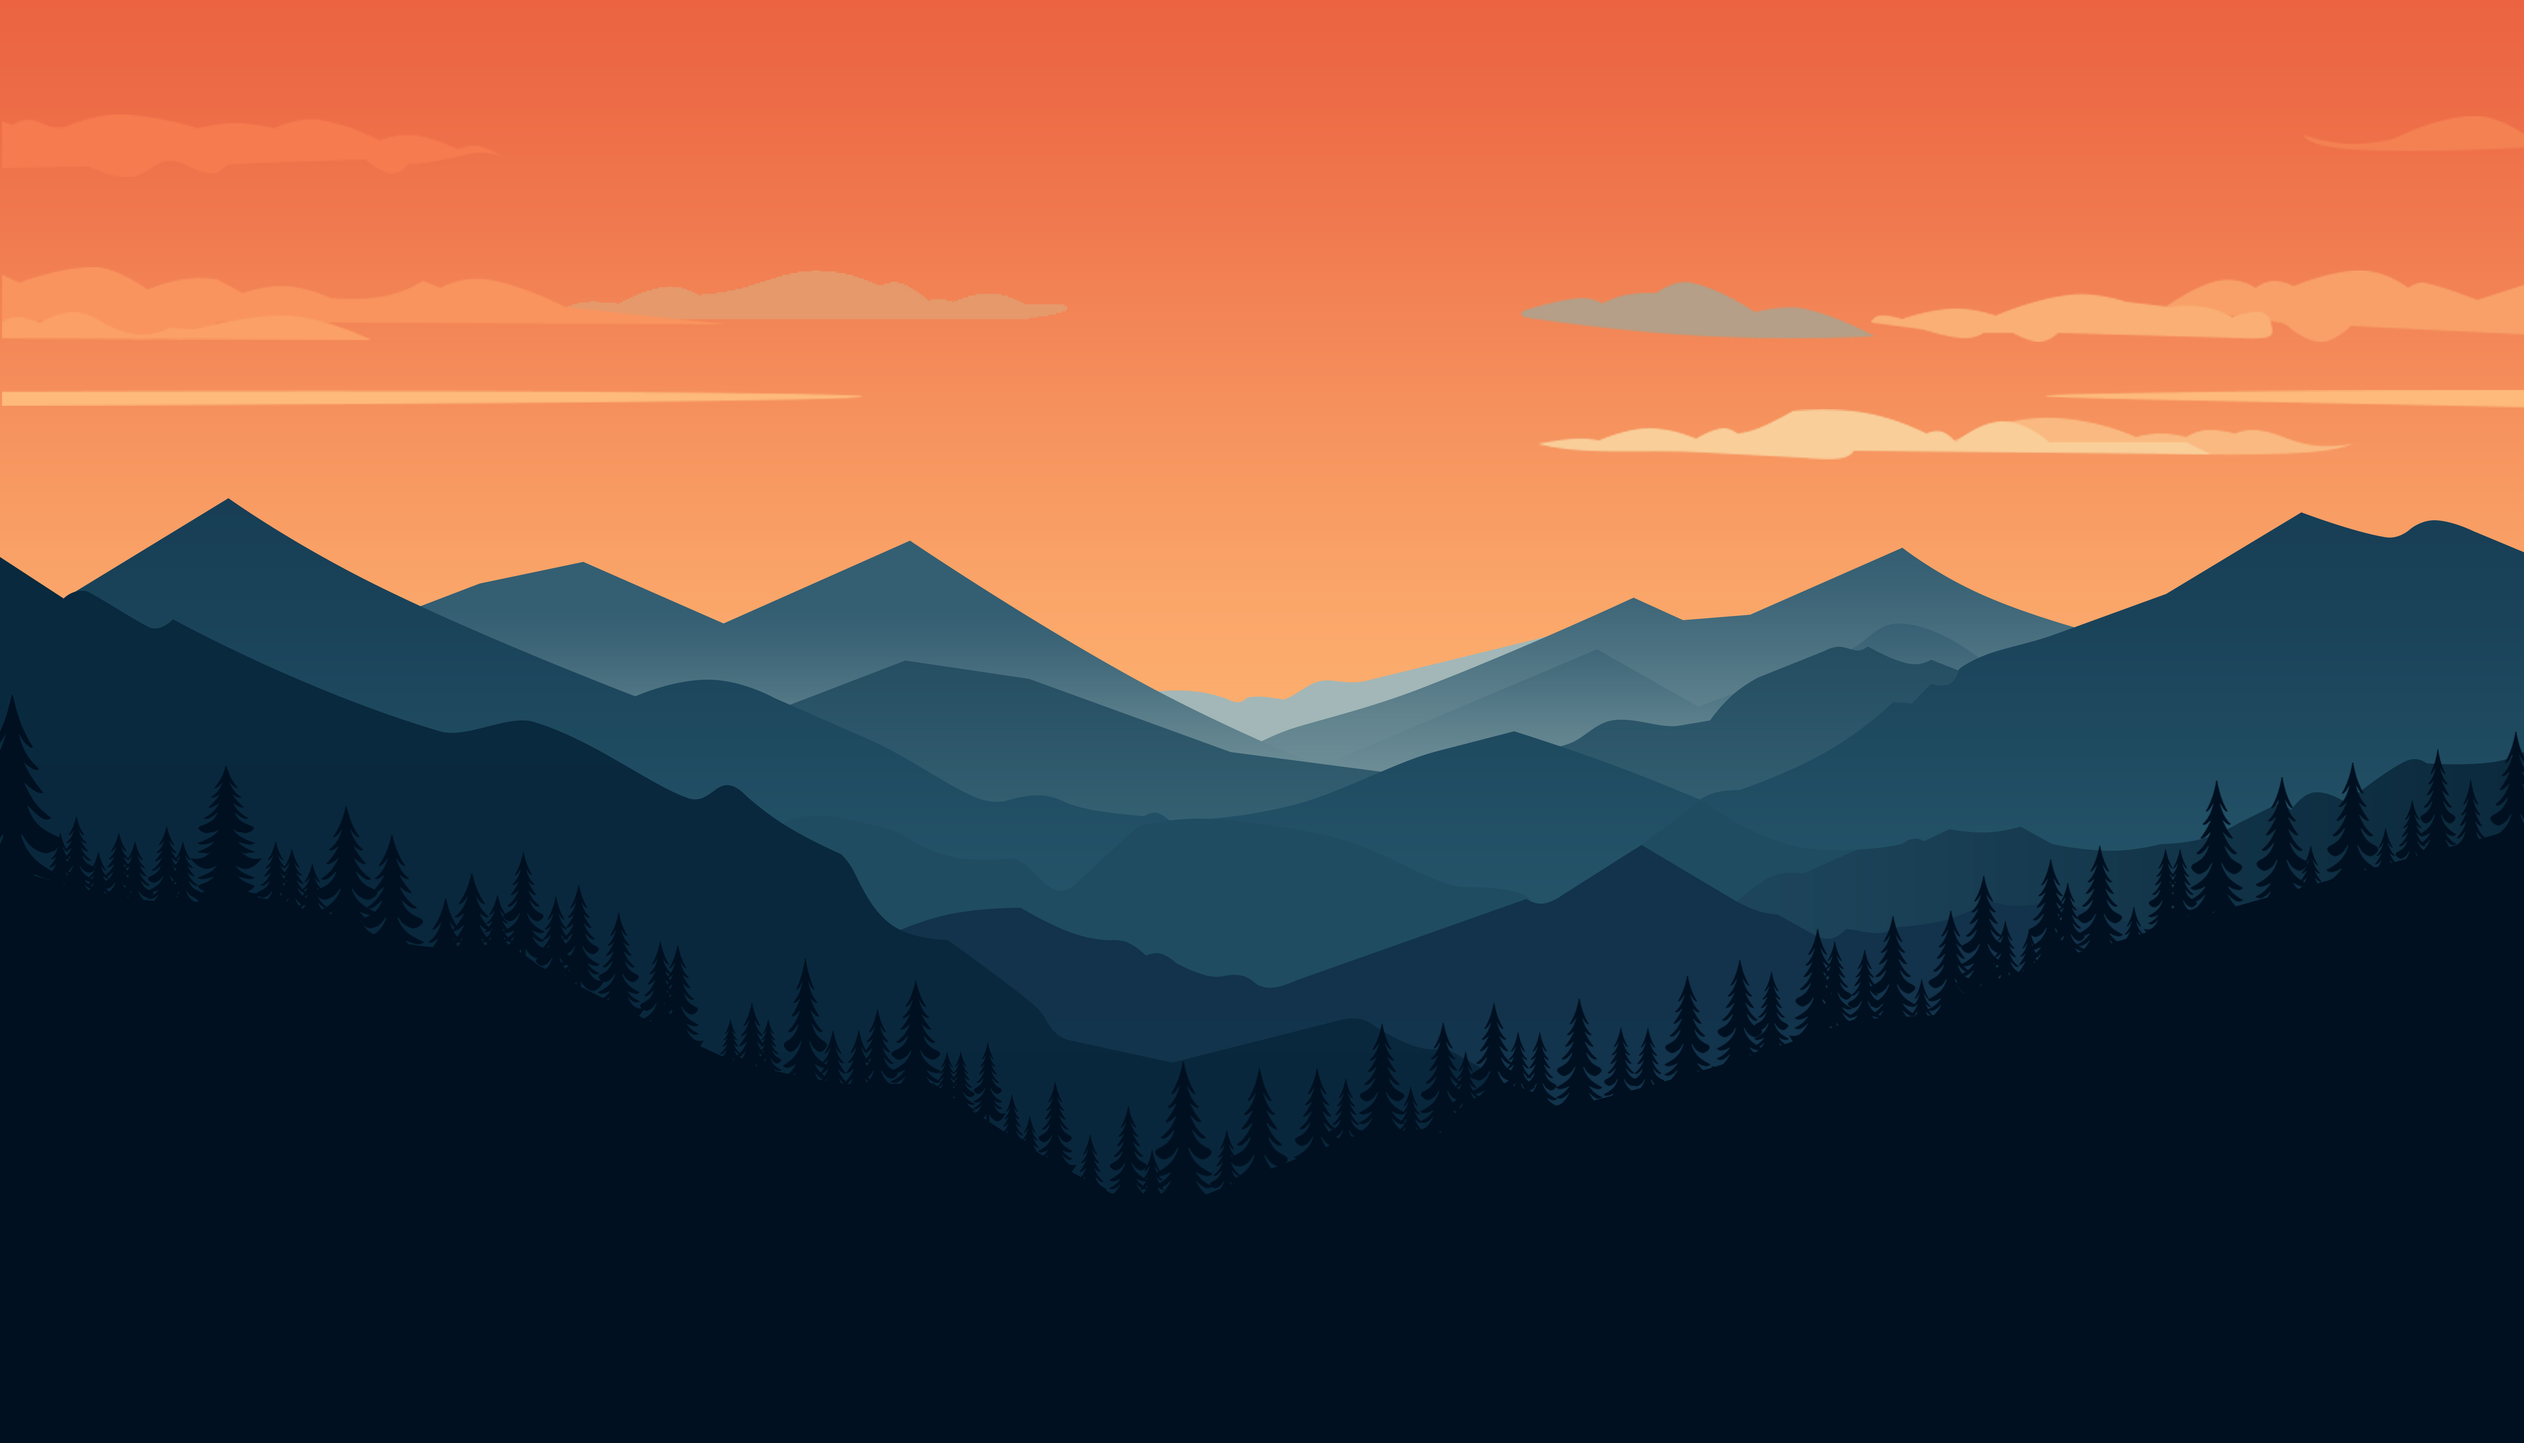
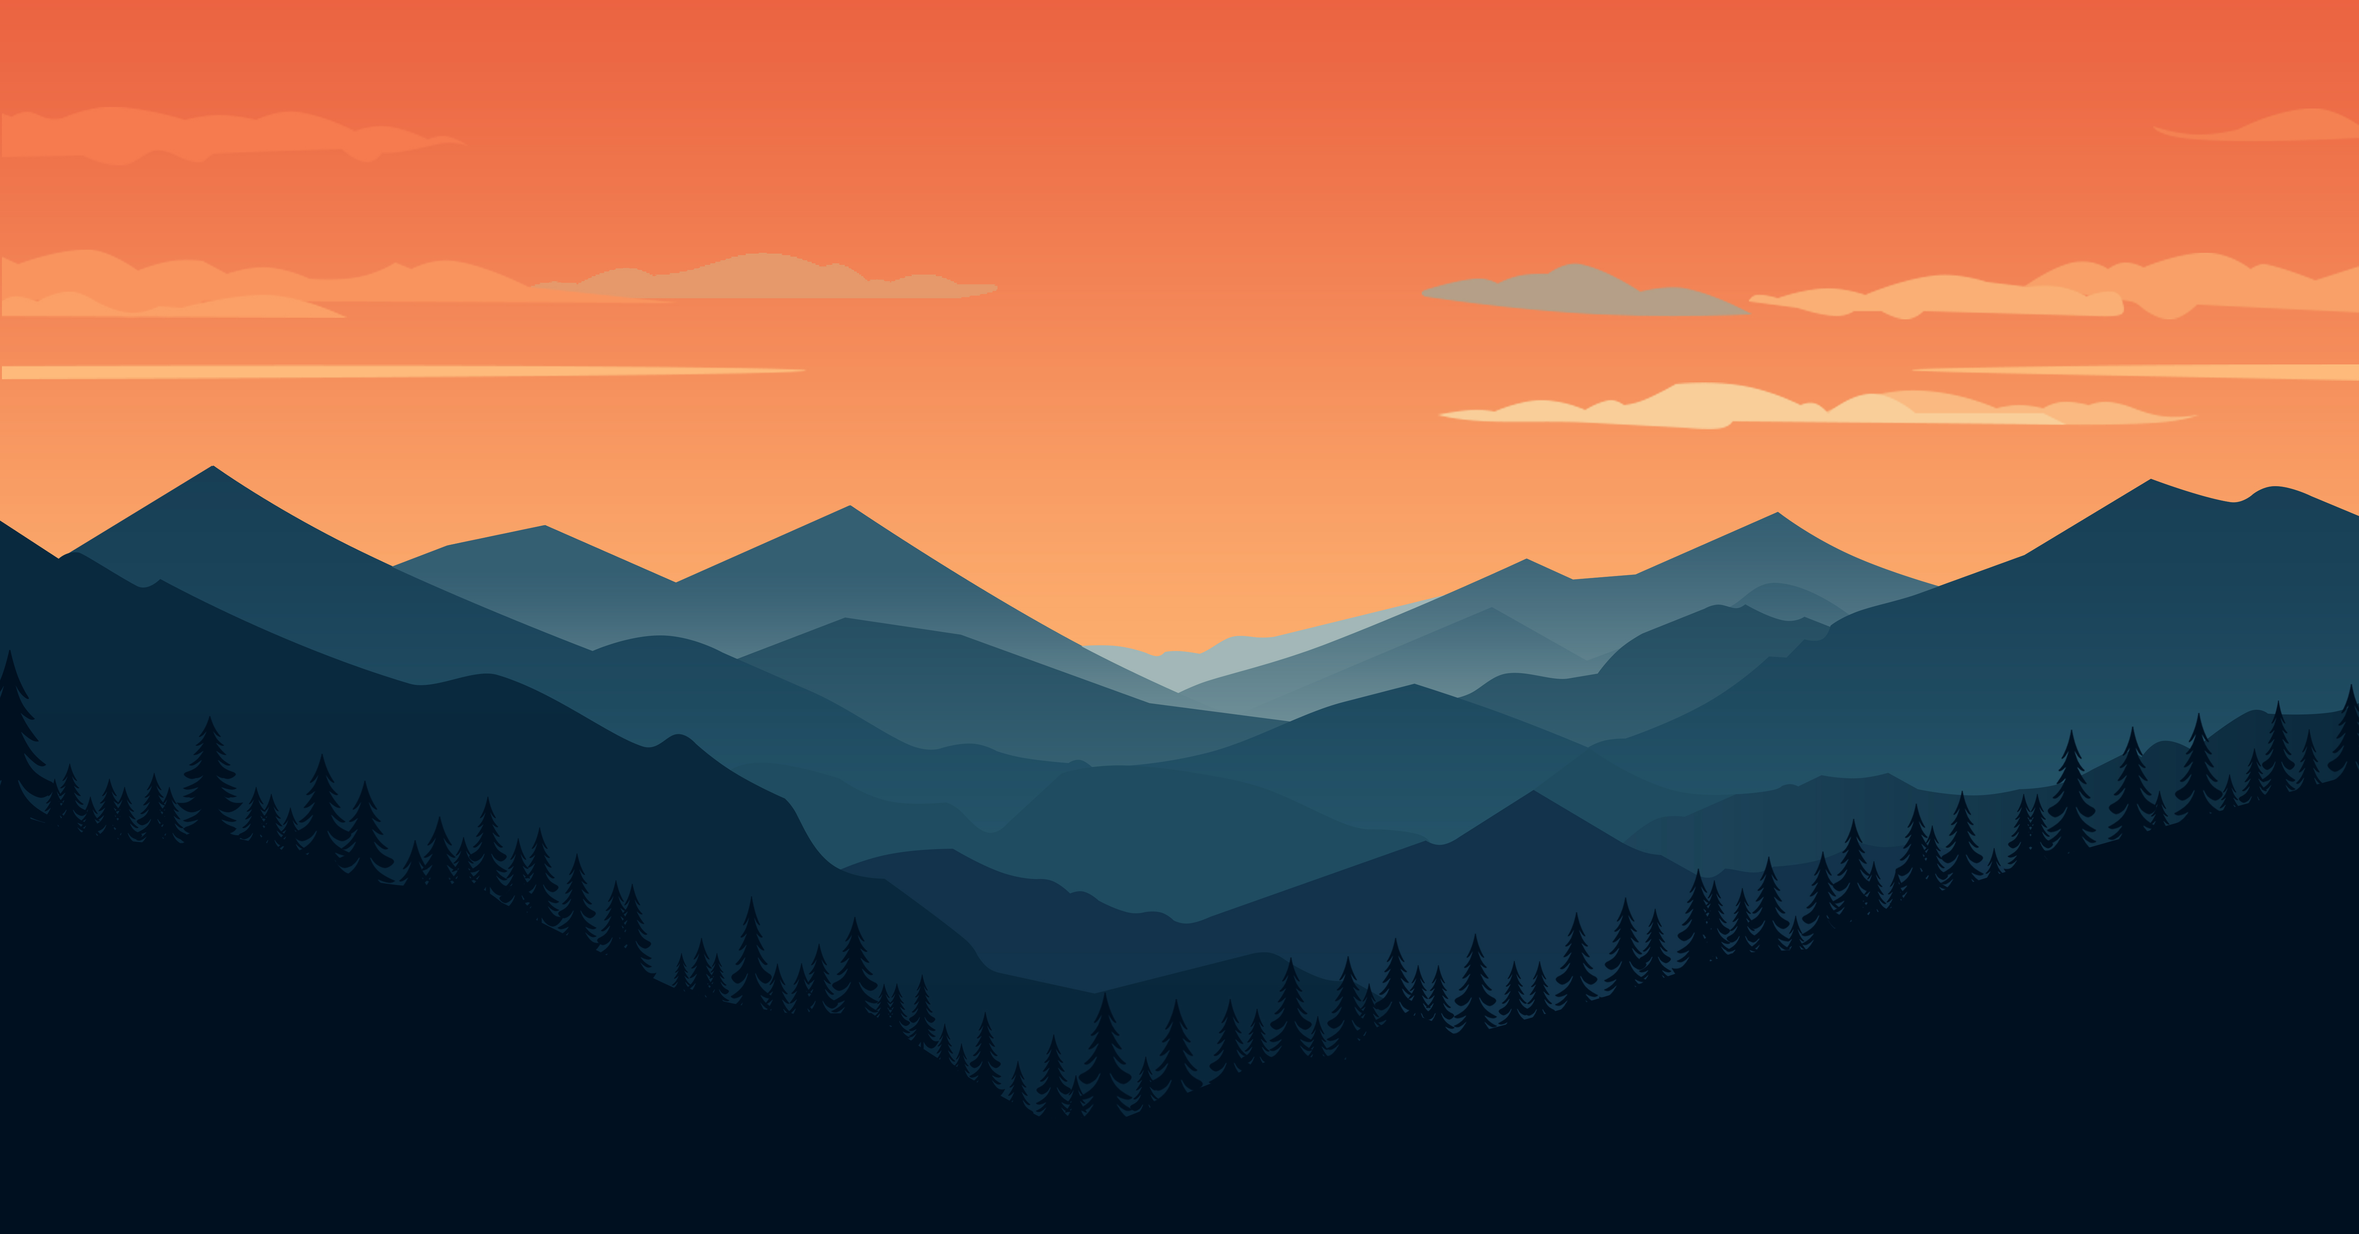
Fixed Parallax: - Arreglé el parallax a fin de ser responsive y respetar diseño - Añadí un prototipo de navbar

Changed region(s): [[0.0, 0.1862, 1.0, 0.8998], [0.0, 0.2482, 0.3122, 0.3103], [0.2498, 0.1862, 0.4059, 0.2172]]

diff --git a/src/App.jsx b/src/App.jsx
@@ -1,4 +1,3 @@
-import { useRef } from "react";
 import sun from "./assets/sol.png";
 import fondo from "./assets/Fondo.jpg";
 import fondo2 from "./assets/fondo2.png";
@@ -7,77 +6,97 @@ import fondo3 from "./assets/fondo3.png";
 import { Parallax, ParallaxLayer } from "@react-spring/parallax";
 
 function App() {
-  const ref = useRef();
-
   return (
-    <Parallax pages={2} style={{ top: "0", left: "0" }}>
-      {/* Fondo 1 */}
-      <ParallaxLayer
-        offset={0}
-        speed={0}
+    <>
+      <div
         style={{
-          backgroundImage: `url(${fondo})`,
-          backgroundSize: "cover",
-          height: "100vh",
-          width: "100vw",
-          position: "absolute",
-        }}
-      />
-
-      {/* Sol */}
-      <ParallaxLayer
-        offset={0}
-        speed={-1.3}
-        style={{
-          display: "flex",
-          justifyContent: "center",
-          alignItems: "start",
-          clip: "rect(0px, 100vw, 100vh, 0px)", // Agrega esta propiedad para ocultar el sol si baja más allá de la capa del fondo 1
+          height: "100%",
+          overflow: "hidden", // Oculta el desplazamiento interno
         }}
       >
-        <img
-          src={sun}
-          alt="Sun"
-          style={{ paddingTop: "20px", width: "1%", minWidth: "200px" }}
-        />
-      </ParallaxLayer>
+        <Parallax pages={3} style={{ height: "100%", top: "0", left: "0" }}>
+          {/* Fondo 1 */}
+          <ParallaxLayer
+            offset={0}
+            speed={0}
+            style={{
+              backgroundImage: `url(${fondo})`,
+              backgroundSize: "cover",
+              height: "100vh",
+              width: "100vw",
+              position: "absolute",
+            }}
+          />
 
-      <ParallaxLayer
-        offset={0}
-        speed={0}
-        style={{
-          backgroundImage: `url(${fondo3})`,
-          backgroundSize: "cover",
-          height: "100vh",
-          width: "100vw",
-          position: "absolute",
-        }}
-      />
+          {/* Sol */}
+          <ParallaxLayer
+            offset={0}
+            speed={-1.2}
+            style={{
+              display: "flex",
+              justifyContent: "center",
+              alignItems: "start",
+            }}
+          >
+            <img
+              src={sun}
+              alt="Sun"
+              style={{ paddingTop: "20px", width: "1%", minWidth: "200px" }}
+            />
+          </ParallaxLayer>
 
-      {/* Fondo 2 */}
-      <ParallaxLayer
-        offset={0}
-        speed={0.5}
-        style={{
-          backgroundImage: `url(${fondo2})`,
-          backgroundSize: "cover",
-          width: "100vw",
-          top: "400px",
-        }}
-      />
+          <ParallaxLayer
+            offset={0}
+            speed={0}
+            style={{
+              backgroundImage: `url(${fondo3})`,
+              backgroundSize: "cover",
+              height: "100vh",
+              width: "100vw",
+              position: "absolute",
+            }}
+          />
+          {/* Fondo 2 */}
+          <ParallaxLayer
+            offset={0}
+            speed={0.1}
+            style={{
+              backgroundImage: `url(${fondo2})`,
+              backgroundSize: "cover",
+              width: "100vw",
+              top: "400px",
+            }}
+          />
 
-      <ParallaxLayer offset={1} speed={0}>
-        <div className="bg-[#001021]">
-          <div className="container mx-auto">
-            <div className="h-64">Contenido del contenedor</div>
-            <div className="h-64">Contenido del contenedor</div>
-            <div className="h-64">Contenido del contenedor</div>
-            <div className="h-64">Contenido del contenedor</div>
-            <div className="h-64">Contenido del contenedor</div>
-          </div>
-        </div>
-      </ParallaxLayer>
-    </Parallax>
+          <ParallaxLayer sticky={{ start: 0.92, end: 3 }}>
+            <nav className="flex justify-center items-center h-16 bg-backgroundColor border-b">
+              <ul className="flex items-center space-x-4">
+                <li className="text-lg font-medium">Acerca de mi</li>
+                <li className="text-lg font-medium">Habilidades</li>
+                <li className="text-lg font-medium">Contacto</li>
+              </ul>
+            </nav>
+          </ParallaxLayer>
+
+          <ParallaxLayer
+            offset={1.2}
+            speed={0}
+            style={{
+              top: "-100px", // Ajusta el valor para cambiar la posición vertical
+            }}
+          >
+            <div className="bg-backgroundColor">
+              <div className="">
+                <div className="h-64 w-full">Contenido del contenedor</div>
+                <div className="h-64 w-full">Contenido del contenedor</div>
+                <div className="h-64 w-full">Contenido del contenedor</div>
+                <div className="h-64 w-full">Contenido del contenedor</div>
+              </div>
+            </div>
+          </ParallaxLayer>
+        </Parallax>
+      </div>
+    </>
   );
 }
 

diff --git a/index.css b/index.css
@@ -2,9 +2,56 @@
 @import 'tailwindcss/components';
 @import 'tailwindcss/utilities';
 
+/* Estilos generales de la barra de desplazamiento */
+::-webkit-scrollbar {
+    width: 5px; /* Ancho de la barra */
+    height: 5px; /* Altura de la barra */
+  }
+  
+  /* Estilo del riel */
+  ::-webkit-scrollbar-track {
+    background-color: #f1f1f1; /* Color del riel */
+  }
+  
+  /* Estilo del pulgar */
+  ::-webkit-scrollbar-thumb {
+    background-color: #888; /* Color del pulgar */
+    border-radius: 5px; /* Radio de los bordes del pulgar */
+  }
+  
+  /* Estilo del pulgar cuando se desplaza */
+  ::-webkit-scrollbar-thumb:hover {
+    background-color: #555; /* Color del pulgar en hover */
+  }
+  
+  /* Estilos específicos para dispositivos móviles */
+  @media only screen and (max-width: 768px) {
+    /* Ancho y altura de la barra de desplazamiento */
+    ::-webkit-scrollbar {
+      width: 10px;
+      height: 10px;
+    }
+    
+    /* Color del riel */
+    ::-webkit-scrollbar-track {
+      background-color: #f5f5f5;
+    }
+    
+    /* Color del pulgar */
+    ::-webkit-scrollbar-thumb {
+      background-color: #aaa;
+    }
+    
+    /* Color del pulgar en hover */
+    ::-webkit-scrollbar-thumb:hover {
+      background-color: #777;
+    }
+  }
+
+  
 body {
-    background-color: #001021;
     color: white;
+    background-color: #001021;
 }
 
 

diff --git a/tailwind.config.js b/tailwind.config.js
@@ -2,7 +2,11 @@
 export default {
   content: ["index.html", "./src/**/*.{js,jsx,ts,tsx}"],
   theme: {
-    extend: {},
+    extend: {
+      colors: {
+        'backgroundColor': '#001021',
+      },
+    },
   },
   plugins: [],
 };
